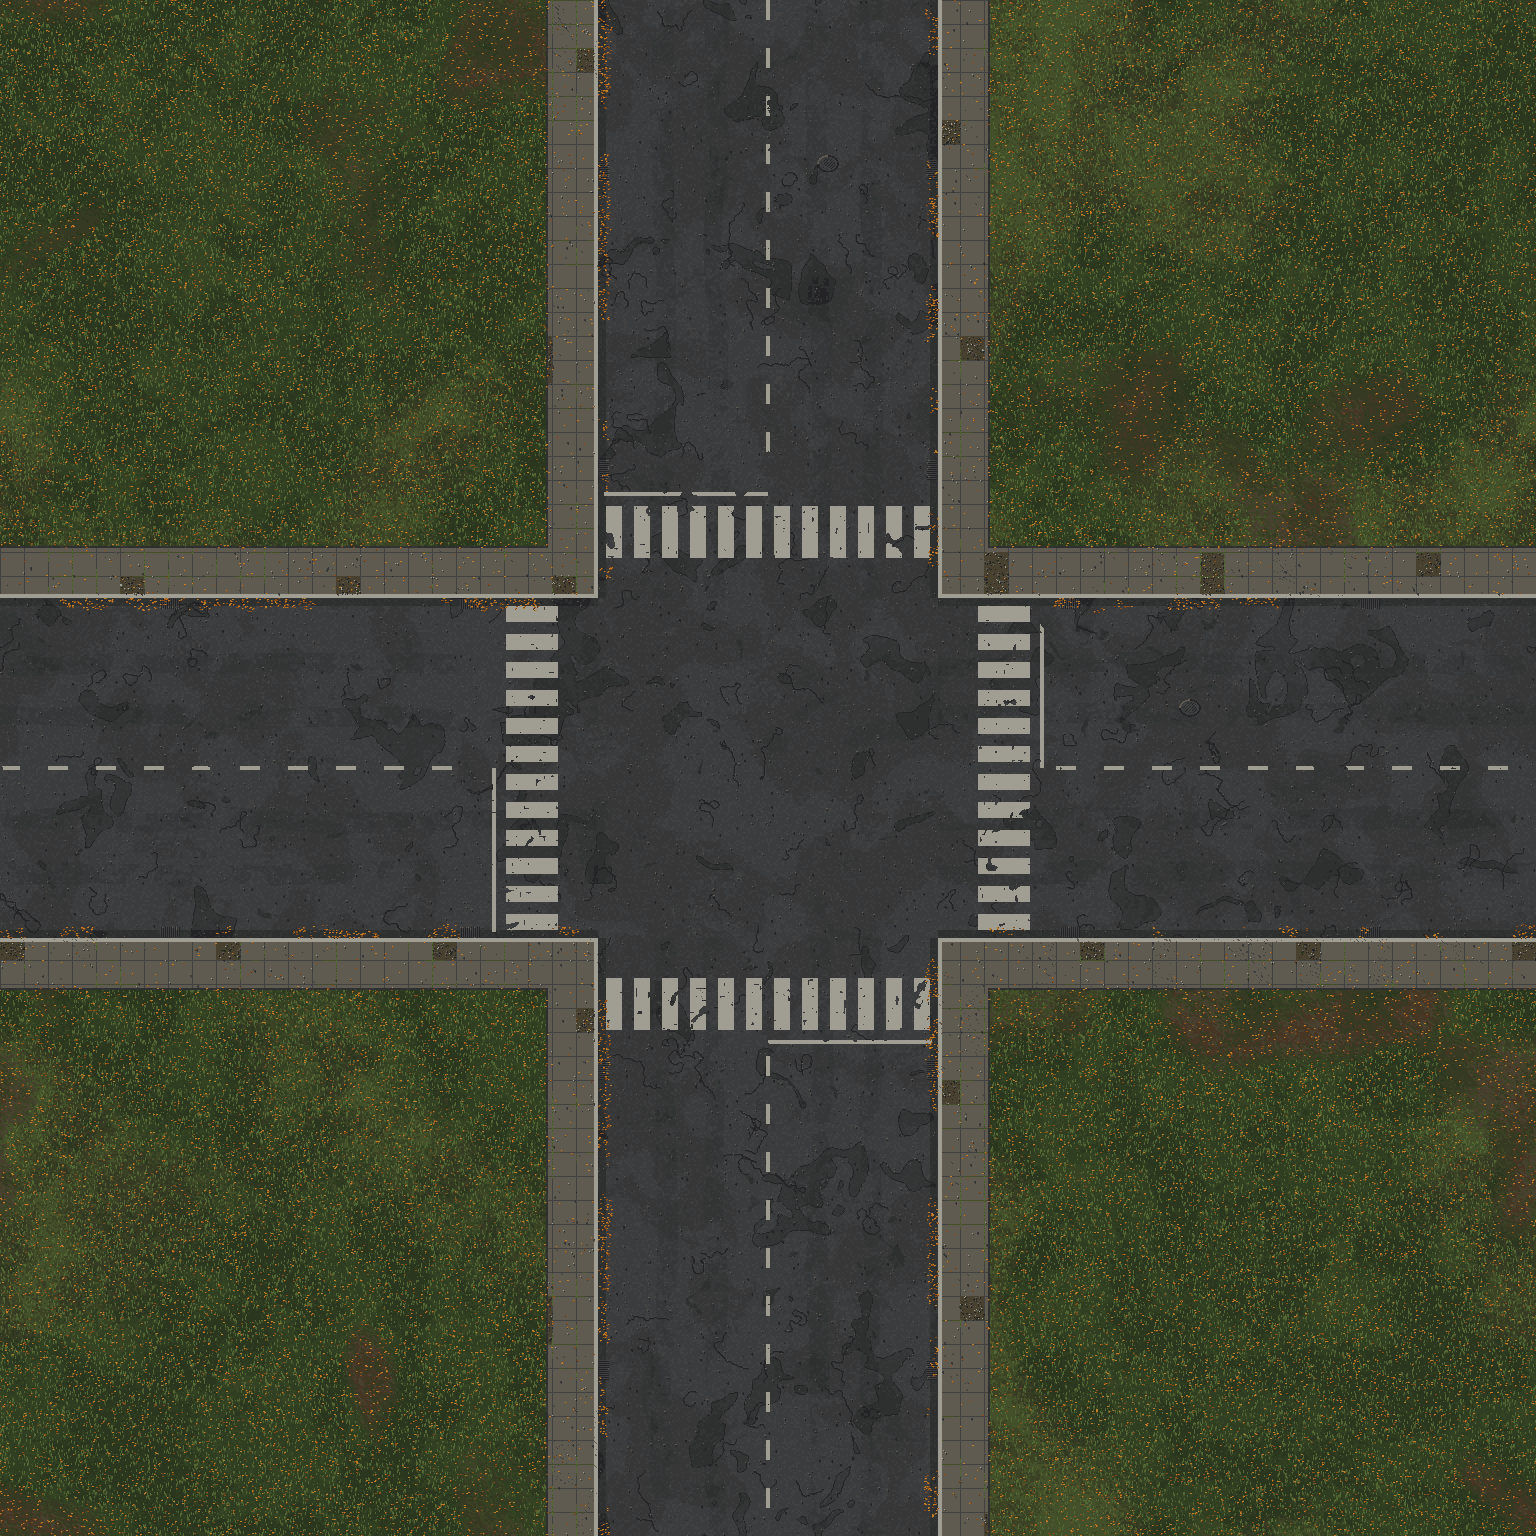
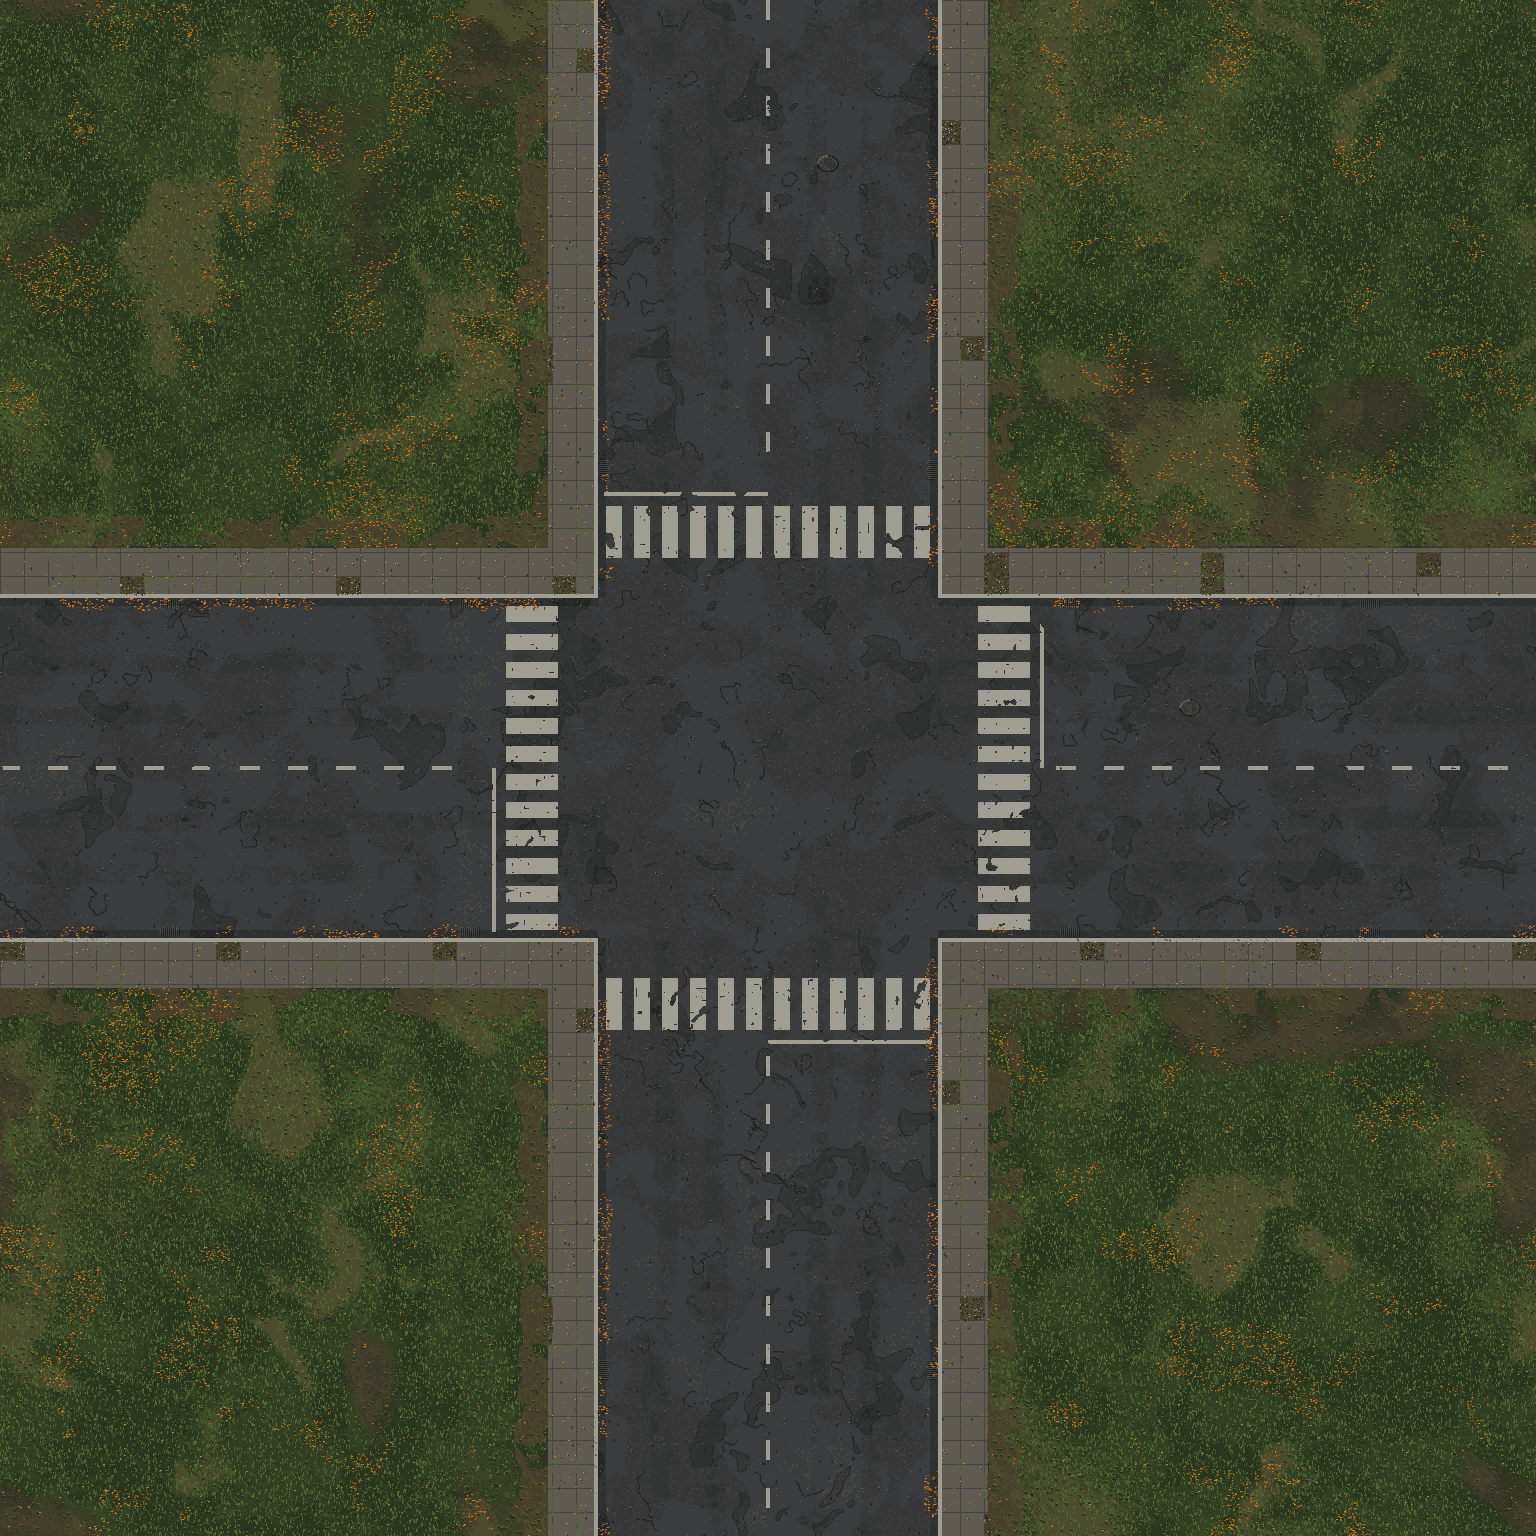
1.48 wip: AO on the GPU, walls reach the floor; v2 shrubs; lawns with drifts and tussocks; no shader asphalt squares
Claude-Session: https://claude.ai/code/session_01Q3d652Ep37MrDZiN13QEse

diff --git a/tools/blender/vegetation_v2.py b/tools/blender/vegetation_v2.py
@@ -1,0 +1,186 @@
+"""OSTATOK 1.48: the small vegetation of the world remodelled in Blender.
+
+vegetation_v1.png (8 cells of 64 px: orange shrub, yellow shrub, green shrub,
+grass tuft, reeds, leaf pile, fallen branch, dry weeds) is the most common
+sprite outdoors - about a hundred per chunk - and was a flat 1x drawing. Each
+cell is modelled (clumps of leaf masses, blades, stalks), rendered with the HD
+pipeline and fitted into the same cell on the old ground line, so placement and
+sway stay as they were.
+
+    python3.13 tools/blender/vegetation_v2.py <project_dir>
+
+Writes art/world_hd/vegetation_v2.png (512 x 64, same layout).
+"""
+import math
+import os
+import random
+import sys
+import tempfile
+
+HERE = os.path.dirname(os.path.abspath(__file__))
+sys.path.insert(0, HERE)
+sys.path.insert(0, os.path.dirname(HERE))
+
+import numpy as np
+from PIL import Image, ImageDraw
+
+import bk
+from bk import box, cyl, mat, tube, sphere
+from props_v20 import harden
+
+RENDER = 60
+
+
+def leafmass(cx, cy, cz, rx, ry, rz, cols, n, seed, size=(1.2, 2.4)):
+    rnd = random.Random(seed)
+    ms = [mat(c, rough=0.85, grime=0.25, scale=0.3) for c in cols]
+    for i in range(n):
+        u, v, w = rnd.uniform(-1, 1), rnd.uniform(-1, 1), rnd.uniform(-1, 1)
+        if u * u + v * v + w * w > 1:
+            continue
+        # upper side lighter: pick the colour by height
+        k = min(len(ms) - 1, int((w + 1) * 0.5 * len(ms) + rnd.uniform(-0.6, 0.6)))
+        sphere((cx + u * rx, cy + v * ry, cz + w * rz), rnd.uniform(*size), ms[max(0, k)], scale=(1, 1, 0.8))
+
+
+def twigs(cx, cy, n, h, seed, col=(70, 52, 36)):
+    rnd = random.Random(seed)
+    m = mat(col, rough=0.9)
+    for i in range(n):
+        a = rnd.uniform(0, math.tau)
+        r = rnd.uniform(1, 4)
+        tube([(cx, cy, 0), (cx + math.cos(a) * r, cy + math.sin(a) * r * 0.5, h * rnd.uniform(0.5, 1.0))], 0.25, m)
+
+
+AUTUMN = [(120, 56, 22), (160, 74, 26), (192, 96, 34), (214, 124, 44)]
+YELLOW = [(140, 110, 30), (178, 146, 44), (206, 176, 62), (226, 202, 96)]
+GREEN = [(42, 58, 30), (56, 76, 36), (72, 94, 44), (92, 112, 54)]
+
+
+def shrub(masses, cols, seed, twig_h=10):
+    """many small leaves over a dark core: depth inside, a broken outline"""
+    twigs(0, 0, 8, twig_h, seed)
+    core = [tuple(int(v * 0.55) for v in cols[0])]
+    for j, (cx, cy, cz, rx, ry, rz) in enumerate(masses):
+        leafmass(cx, cy, cz, rx * 0.75, ry * 0.75, rz * 0.75, core, 40, seed + 50 + j, (1.6, 2.4))
+        leafmass(cx, cy, cz, rx, ry, rz, cols, int(rx * ry * rz * 2.2), seed + j, (0.7, 1.3))
+
+
+def orange_shrub():
+    shrub([(-6, 0, 7, 9, 5, 6), (7, 1, 6, 8, 5, 5)], AUTUMN, 11)
+
+
+def yellow_shrub():
+    shrub([(0, 0, 8, 10, 6, 7), (-9, 2, 4, 5, 4, 4)], YELLOW, 21)
+
+
+def green_shrub():
+    shrub([(0, 0, 15, 8, 6, 10), (2, 1, 6, 7, 5, 5)], GREEN, 31, 16)
+
+
+def blades(n, h, spread, cols, seed, lean=1.5, r=0.32):
+    rnd = random.Random(seed)
+    ms = [mat(c, rough=0.8, grime=0.2) for c in cols]
+    for i in range(n):
+        x, y = rnd.uniform(-spread, spread), rnd.uniform(-spread * 0.4, spread * 0.4)
+        hh = h * rnd.uniform(0.55, 1.0)
+        lx, ly = rnd.uniform(-lean, lean), rnd.uniform(-lean * 0.5, lean * 0.5)
+        tube([(x, y, 0), (x + lx * 0.4, y + ly * 0.4, hh * 0.6), (x + lx, y + ly, hh)], r, ms[i % len(ms)])
+
+
+def grass_tuft():
+    blades(46, 7, 7, [(60, 80, 38), (78, 98, 46), (96, 114, 56), (120, 124, 64)], 41, 2.0)
+
+
+def reeds():
+    blades(34, 15, 6, [(96, 100, 54), (120, 116, 64), (140, 130, 76)], 51, 1.6, 0.3)
+    rnd = random.Random(52)
+    m = mat((110, 80, 48), rough=0.9)
+    for i in range(6):
+        x = rnd.uniform(-5, 5)
+        cyl((x, 0, 13 + rnd.uniform(-1, 2)), 0.6, 2.6, m, bevel=0.2, verts=8)
+
+
+def leaf_pile():
+    rnd = random.Random(61)
+    for i in range(80):
+        x, y = rnd.gauss(0, 5), rnd.gauss(0, 2.4)
+        d = math.hypot(x / 9, y / 4.5)
+        if d > 1.1:
+            continue
+        z = (1.1 - d) * 3.0
+        c = AUTUMN[rnd.randrange(len(AUTUMN))]
+        sphere((x, y, z), rnd.uniform(1.0, 1.9), mat(c, rough=0.9, grime=0.3), scale=(1.3, 1.0, 0.35))
+
+
+def fallen_branch():
+    bark = mat((74, 56, 40), rough=0.95, grime=0.3, scale=0.2)
+    tube([(-11, 1, 0.9), (-3, 0, 1.0), (4, -1, 1.1), (11, 0.5, 0.9)], 0.9, bark)
+    tube([(-3, 0, 1.0), (0, 3, 1.4), (2, 5, 1.2)], 0.45, bark)
+    tube([(4, -1, 1.1), (7, -3, 2.0), (9, -4, 2.4)], 0.4, bark)
+    tube([(-7, 0.5, 1.0), (-9, -2.5, 1.6)], 0.35, bark)
+    leafmass(9, -4, 2.4, 1.8, 1.2, 1.0, AUTUMN[1:], 12, 71, (0.6, 1.0))
+
+
+def dry_weeds():
+    blades(22, 10, 5, [(110, 86, 52), (132, 104, 62), (92, 70, 44)], 81, 2.4, 0.22)
+    rnd = random.Random(82)
+    m = mat((150, 120, 74), rough=0.9)
+    for i in range(10):
+        sphere((rnd.uniform(-5, 5), rnd.uniform(-1, 1), rnd.uniform(6, 10)), 0.6, m)
+
+
+CELLS = [orange_shrub, yellow_shrub, green_shrub, None, None, None, None, None]   # the small ones stay drawn
+
+
+def build(P):
+    src = Image.open(os.path.join(P, 'vegetation_v1.png')).convert('RGBA')
+    sheet = Image.new('RGBA', src.size)
+    tmp = tempfile.mkdtemp(prefix='ostatok_veg2_')
+    for i, fn in enumerate(CELLS):
+        x0 = i * 64
+        if fn is None:
+            sheet.paste(src.crop((x0, 0, x0 + 64, 64)), (x0, 0))
+            continue
+        old = np.array(src.crop((x0, 0, x0 + 64, 64)))
+        solid = old[..., 3] > 200          # the drawing without its soft shadow
+        ys, xs = np.nonzero(solid)
+        bx0, by0, bx1, by1 = xs.min(), ys.min(), xs.max() + 1, ys.max() + 1
+        bk.reset()
+        bk.camera(RENDER, 46, 30)
+        fn()
+        raw = bk.render(os.path.join(tmp, '%d.png' % i))
+        spr = bk.to_sprite(raw, RENDER, colours=0, outline=False, shadow=False)
+        a = np.array(spr)
+        sy, sx = np.nonzero(a[..., 3] > 0)
+        spr = spr.crop((sx.min(), sy.min(), sx.max() + 1, sy.max() + 1))
+        tw, th = bx1 - bx0 + 4, by1 - 2
+        k = min(tw / spr.width, th / spr.height)
+        nw, nh = max(1, int(round(spr.width * k))), max(1, int(round(spr.height * k)))
+        arr = np.array(spr).astype(float)
+        arr[..., :3] *= arr[..., 3:4] / 255.0
+        pm = Image.fromarray(np.clip(arr, 0, 255).astype(np.uint8), 'RGBA').resize((nw, nh), Image.LANCZOS)
+        arr = np.array(pm).astype(float)
+        al = np.maximum(arr[..., 3:4], 1)
+        arr[..., :3] = np.clip(arr[..., :3] * 255.0 / al, 0, 255)
+        fitted = Image.new('RGBA', (nw + 2, nh + 2))
+        fitted.paste(Image.fromarray(arr.astype(np.uint8), 'RGBA'), (1, 1))
+        fitted = harden(fitted, 20)
+        cell = Image.new('RGBA', (64, 64))
+        # a soft contact shadow under the plant, as the old cells had
+        sh = Image.new('RGBA', (64, 64))
+        d = ImageDraw.Draw(sh)
+        cx = (bx0 + bx1) // 2
+        hw = max(6, int(nw * 0.42))
+        d.ellipse((cx - hw + 3, by1 - 4, cx + hw + 3, by1 + 1), fill=(8, 10, 10, 80))
+        cell.alpha_composite(sh)
+        cell.alpha_composite(fitted, (max(0, int(cx - fitted.width // 2)), max(0, int(by1 - fitted.height))))
+        sheet.paste(cell, (x0, 0))
+        print('veg', i, fn.__name__, fitted.size, flush=True)
+    out = os.path.join(P, 'art', 'world_hd')
+    os.makedirs(out, exist_ok=True)
+    sheet.save(os.path.join(out, 'vegetation_v2.png'))
+
+
+if __name__ == '__main__':
+    build(sys.argv[1] if len(sys.argv) > 1 else '.')

diff --git a/tools/wa_ground_districts.py b/tools/wa_ground_districts.py
@@ -196,6 +196,34 @@ def grass_field(seed, base=(46, 58, 34), dry=(86, 82, 50), dirt=(74, 61, 44), dr
     return g, hf, soil
 
 
+def lawn_detail(alb, hf, m, seed, walk_d=None):
+    """1.48: a lawn that reads as grass, not as a carpet: tussocks with a lit
+    top, dry straw patches, ground worn bare beside the paths, and fallen leaves
+    gathered in drifts instead of sprinkled evenly."""
+    dry = soft(noise(seed + 1, 46, 3), 0.62, 0.78) * m
+    alb = blend(alb, (92, 88, 54), dry * 0.55)
+    if walk_d is not None:
+        worn = m & (walk_d < 10.0 + 10.0 * noise(seed + 2, 10, 2)) & (noise(seed + 3, 16, 2) > 0.48)
+        alb = blend(alb, (78, 66, 48), worn * 0.7)
+        hf = hf - worn * 0.3
+    # tussocks: a dark body and a lit tip
+    rng = np.random.default_rng(seed + 4)
+    ys, xs = np.nonzero(m)
+    for i in rng.integers(0, len(xs), max(1, len(xs) // 160)):
+        x, y = xs[i], ys[i]
+        dark = np.array((36, 48, 26), float)
+        lit = np.array((88, 106, 54), float)
+        for dx, dy in ((0, 0), (1, 0), (-1, 0), (0, 1), (1, 1)):
+            alb[(y + dy) % N, (x + dx) % N] = dark
+        alb[(y - 1) % N, x] = lit
+        alb[(y - 1) % N, (x + 1) % N] = lit * 0.9
+        alb[(y + 2) % N, (x + 1) % N] *= 0.7
+    drift = m & (noise(seed + 5, 30, 3) > 0.66)
+    alb = leaves(alb, drift, 0.05, seed + 6)
+    alb = leaves(alb, m, 0.0025, seed + 7)
+    return alb, hf
+
+
 # ------------------------------------------------------------- families ---
 _soft_seed = [500]
 
@@ -596,8 +624,9 @@ def city():
     # lawn kerb: low dark edge where the lawn meets the pavement
     lawn_edge = plot & ((np.abs(X - SW0) < 1.0) | (np.abs(X - SW1) < 1.0) | (np.abs(Y - SW0) < 1.0) | (np.abs(Y - SW1) < 1.0))
     alb[lawn_edge] = (52, 52, 46)
-    alb = leaves(alb, plot, 0.02, 9215)
-    alb = leaves(alb, sw, 0.004, 9216)
+    walk_d = np.minimum(np.minimum(np.abs(X - SW0), np.abs(X - SW1)), np.minimum(np.abs(Y - SW0), np.abs(Y - SW1)))
+    alb, hf = lawn_detail(alb, hf, plot, 9230, walk_d)
+    alb = leaves(alb, sw, 0.003, 9216)
     return alb, hf
 
 
